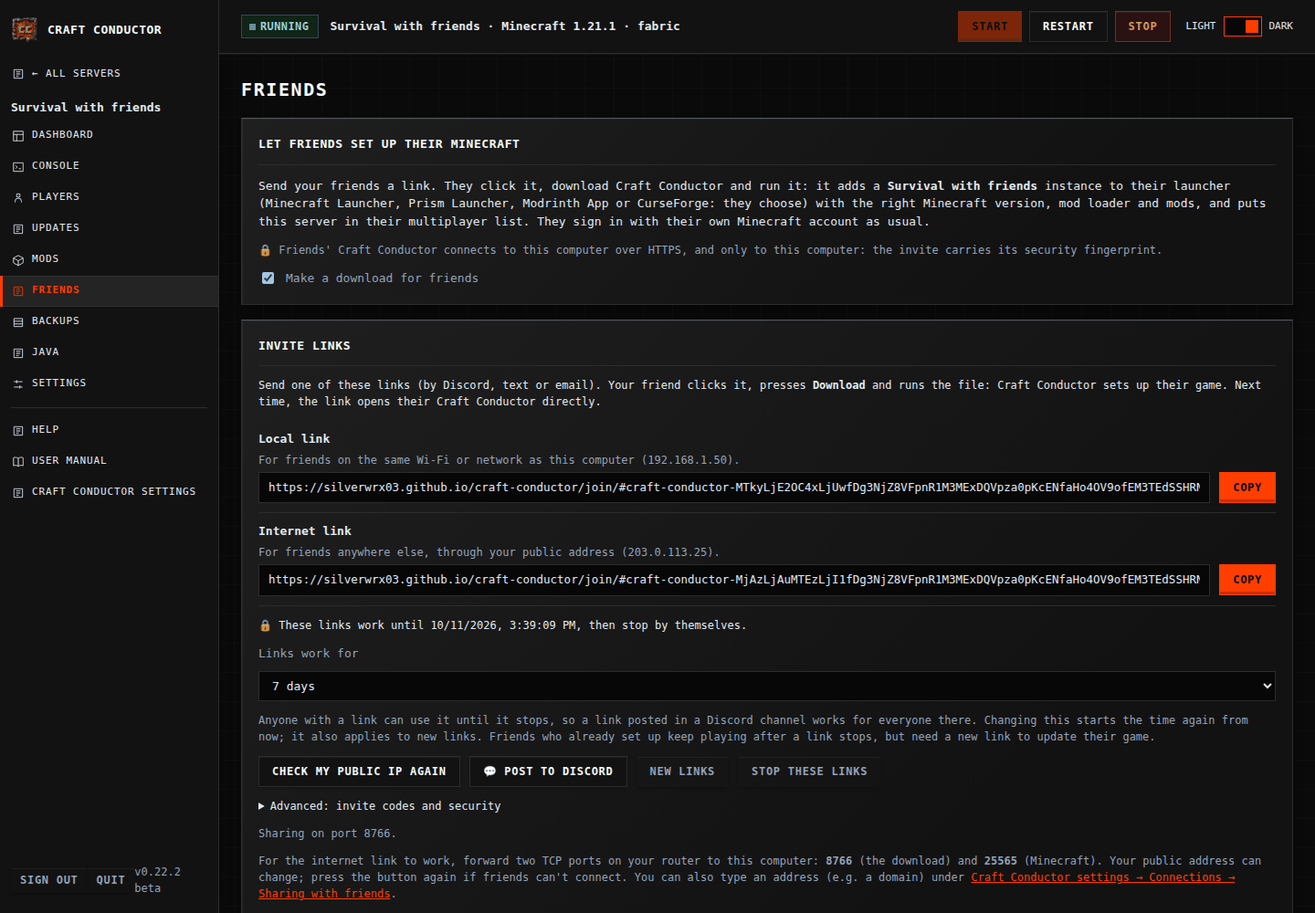
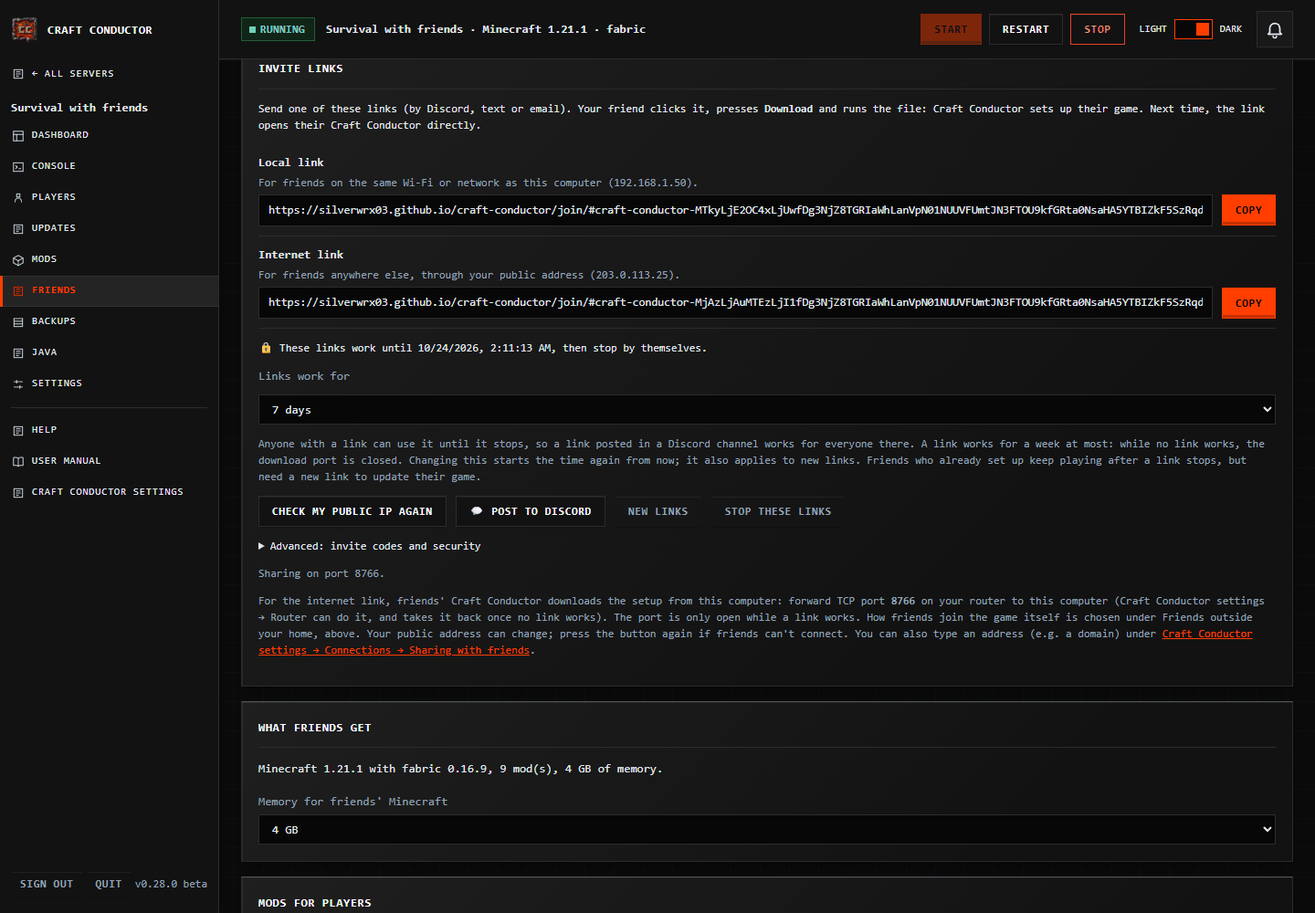
Friends outside your home in the manual, the Help page, the wiki, translations and the changelog
The manual's Friends section explains the three ways, playit.gg's downsides
(checked against its terms and plans on 2026-10-16) and its guided setup, the
risks of an open port and the port Craft Conductor picks, the whitelist rule
and its question, and links that work 1, 3 or 7 days. New picture of the
chooser (friends-outside.png); friends.png shows the invite links again.
The changelog starts with the "Before you update" note for old links.

diff --git a/src/craft_conductor/webui/app.js b/src/craft_conductor/webui/app.js
@@ -5528,7 +5528,9 @@ function routerHelp(opts = {}) {
     h("div", { class: "notice" }, h("strong", {}, "Let Craft Conductor try first: "), "many routers can do it by themselves (UPnP). Switch on ",
       h("a", { href: "#craft-conductor" }, "Craft Conductor settings → Connections → Sharing with friends → Open the ports on my router by itself"),
       " and Craft Conductor says whether it worked. If it didn't, or you'd rather not, do it by hand:"),
-    h("p", { class: "small muted" }, "Either way, forwarding the port makes your server reachable from the whole internet: keep the whitelist on, and never forward the control panel's port."),
+    h("div", { class: "notice warn small" }, h("strong", {}, "Before you open a port: "), REACH_TEXT.router,
+      " Can't, or would rather not? Choose playit.gg under Friends outside your home, on the server's Friends page."),
+    h("p", { class: "small muted" }, "Choosing Open a port on my router there makes Craft Conductor pick the port (not 25565, which bots try first) and say which one to forward. Never forward the control panel's port."),
     h("img", { class: "help-img", src: "/help-network.svg", alt: "A friend on the internet connects to your router, which forwards port " + mc + " to this computer." }),
     h("ol", { class: "steps" },
       h("li", {}, "Give this computer a fixed address on your network, so the rule keeps working: in the router's ", h("strong", {}, "LAN / DHCP"),
@@ -5538,7 +5540,8 @@ function routerHelp(opts = {}) {
       h("li", {}, "Find ", h("strong", {}, "Port Forwarding"), ". Routers also call it Virtual Server, NAT, Port Mapping, or Applications & Gaming."),
       h("li", {}, "Add a rule: protocol ", h("strong", {}, "TCP"), ", external and internal port ", h("strong", {}, String(mc)),
         ", to ", h("strong", {}, ip), ". That's Minecraft."),
-      h("li", {}, "If friends download their setup from you over the internet, add a second rule for port ", h("strong", {}, String(share)), " the same way."),
+      h("li", {}, "If friends download their setup from you over the internet, add a second rule for port ", h("strong", {}, String(share)),
+        " the same way. Craft Conductor only answers on it while an invite link works (a week at most)."),
       h("li", {}, "Save, then test: ask a friend (or use your phone with Wi-Fi off) to connect.")),
     h("img", { class: "help-img", src: "/help-router.svg", alt: "An example port forwarding rule: Minecraft, TCP, port " + mc + ", to this computer's address." }),
     h("div", { class: "notice warn" }, h("strong", {}, "Every router is different. "),
@@ -5588,7 +5591,10 @@ const HELP = [
     screenshot("friends", "The Friends page: a link for friends on your Wi-Fi, and one for everyone else."),
     screenshot("invite-page", "What your friend sees when they open the link."),
     screenshot("friend-setup", "Your friend's Craft Conductor sets up their launchers, and can ask you to let them in."),
-    h("p", {}, "Links are shared, so anyone with one can use it: each stops working by itself after the time you pick (7 days unless you change it), and ",
+    h("p", {}, "Friends who aren't on your Wi-Fi: pick how they join under ", h("strong", {}, "Friends outside your home"), " at the top of the Friends page. ",
+      h("strong", {}, "playit.gg"), " (chosen at first) needs nothing opened on your router: the page walks you through getting its program, which is downloaded only when you press its button and checked before it opens. ",
+      h("strong", {}, "Open a port on my router"), " says the risks first, then picks the port to forward. Either way the whitelist is on, and turning it off asks every time."),
+    h("p", {}, "Links are shared, so anyone with one can use it: each stops working by itself after the time you pick (3 days unless you change it, a week at most), and ",
       h("strong", {}, "Stop these links"), " or ", h("strong", {}, "New links"), " stops it sooner. Friends who already set up keep playing; they need a new link to update."),
     h("p", {}, "Mods you pick under ", h("strong", {}, "Mods for players"), " that run on both sides (client and server) are added to the server's own mods too, with the mods they need, and a message says so; ",
       "removing one from the players' list asks whether to remove it from the server as well (and then about the mods it needed there that friends have too). Mods that only run on players' computers stay with the players. " +
@@ -5672,7 +5678,7 @@ const MANUAL_PICTURES = {
   "Backups": [["backups", "Backups, each checked, with what changed since the one before"]],
   "Java": [["java", "Java versions"]],
   "Settings": [["settings", "A server's settings"], ["web-map", "World tools and the web map"]],
-  "Friends: playing with friends": [["friends", "Invite links on the Friends page"],
+  "Friends: playing with friends": [["friends-outside", "Friends outside your home: playit.gg, step by step"], ["friends", "Invite links on the Friends page"],
     ["discord-invite", "Posting Java and Bedrock invites to Discord"]],
   "For friends: joining a server": [["invite-page", "The invite page your friend opens"],
     ["friend-setup", "Craft Conductor setting up Minecraft on your friend's computer"]],

diff --git a/tests/test_screenshots.py b/tests/test_screenshots.py
@@ -276,6 +276,9 @@ def test_documentation_screenshots(tmp_path, http, modrinth, fake_java, monkeypa
 
     # This computer, as the pictures show it: not the one taking them.
     monkeypatch.setattr(cli, "lan_ip", lambda: "192.168.1.50")
+    from craft_conductor import tunnel
+    monkeypatch.setattr(tunnel, "agent_running", lambda: False)  # (playit.gg's steps from the start, whatever runs here)
+    monkeypatch.setattr(tunnel, "platform", lambda: "windows")
     monkeypatch.setattr(setupmod, "total_ram_gb", lambda: 32.0)
     monkeypatch.setattr(health, "memory_available_gb", lambda: 18.5)
     disk = shutil._ntuple_diskusage(1000 * 1024 ** 3, 412 * 1024 ** 3, 588 * 1024 ** 3)
@@ -382,6 +385,7 @@ def test_documentation_screenshots(tmp_path, http, modrinth, fake_java, monkeypa
     players_files(m.server_dir)
     write_properties(m.server_dir / "server.properties", {"white-list": "true", "enforce-whitelist": "true"})
     (m.server_dir / "players.txt").write_text(" ".join(ONLINE))
+    configmod.set_value(m.config.path, "reach", "way", '"playit"')  # (friends outside join through playit.gg)
     configmod.set_value(m.config.path, "client", "enabled", "true")
     configmod.set_value(m.config.path, "client", "mods", json.dumps(["xaeros-minimap"]))
     make_link(m.config.path, 7)

diff --git a/packaging/wiki.py b/packaging/wiki.py
@@ -68,7 +68,8 @@ IMAGES = {
     "Backups": [("backups.png", "Backups, each checked, with what changed since the one before")],
     "Java": [("java.png", "Java versions")],
     "Settings": [("settings.png", "A server's settings"), ("web-map.png", "World tools and the web map")],
-    "Friends: playing with friends": [("friends.png", "Invite links on the Friends page"),
+    "Friends: playing with friends": [("friends-outside.png", "Friends outside your home: playit.gg, step by step"),
+                                       ("friends.png", "Invite links on the Friends page"),
                                        ("discord-invite.png", "Posting Java and Bedrock invites to Discord")],
     "For friends: joining a server": [("invite-page.png", "The invite page your friend opens"),
                                       ("friend-setup.png", "Craft Conductor setting up Minecraft on your friend's computer")],

diff --git a/src/craft_conductor/webui/manual.md b/src/craft_conductor/webui/manual.md
@@ -119,7 +119,7 @@ The version and server type you pick are what the server is made on. Your mods n
 - Maps need Minecraft 1.18 or newer, and aren't available for modpacks or imported worlds. Vanilla servers are previewed with Fabric, which makes exactly the same worlds.
 - If a map can't be made, it says why (when the private server crashed, which mod it blames). Its server's log is kept as `last-failed.log` in the `previews` folder of Craft Conductor's own folder (`.craft-conductor`) until Craft Conductor restarts.
 
-**5. Settings.** The server's name (shown in the multiplayer list), max players, difficulty, game mode, memory and port. Above 16 GB of memory, Craft Conductor offers **Aikar's flags** (tuned garbage collection that avoids lag spikes). **Advanced settings** has the rest of Minecraft's server settings. The whitelist starts **off** (anyone with the address can join) until you turn it on.
+**5. Settings.** The server's name (shown in the multiplayer list), max players, difficulty, game mode, memory and port. Above 16 GB of memory, Craft Conductor offers **Aikar's flags** (tuned garbage collection that avoids lag spikes). **Advanced settings** has the rest of Minecraft's server settings. Under **Friends (optional)**, **Friends outside your home** picks how friends who aren't on your Wi-Fi join (playit.gg is chosen at first; see Friends outside your home). When the server can be reached from the internet, the whitelist starts **on**, and **Your Minecraft name** puts you on it; with **Only friends at home**, it starts **off** (anyone with the address can join) until you turn it on.
 
 **Friends (optional).** Tick "Make a download for my friends" to get an invite for them. **Set up now** opens the mod browser for mods for players' computers (a minimap, JEI...), and **Local files** adds your own. Mods your server's mods need on players' computers are added by themselves. A mod that runs on both sides ("server + client" in the browser) is also added to the server's mods, with the mods it needs, and a message says so ("X also runs on the server, so it was added there too, with Y"); the list shows it as **also on the server**. Removing it from the list asks whether to remove it from the server too. Mods that only run on players' computers stay with the players.
 
@@ -324,10 +324,7 @@ On the server's **Friends** page, switch on "Make a download for friends". Then:
 
 For power users, **Advanced: invite codes and security** shows the raw invite codes (for `craft-conductor join <code>`).
 
-**For friends outside your home:** press **Use my public IP** (or type your address under Craft Conductor settings → Connections → Sharing with friends), and forward two TCP ports on your router to this computer: the Minecraft port (25565 for the first server) and the friends' port (8766 unless you changed it).
-
-- **Let Craft Conductor do it:** **Craft Conductor settings → Connections → Sharing with friends → Open the ports on my router by itself (UPnP)**. It's off until you switch it on, and it asks you first, because it makes your server reachable from the whole internet, not just your friends: anyone can try to connect, and a weakness in Minecraft or in a mod could put this computer at risk. While it's on, the page says so. Craft Conductor asks the router to forward each server's Minecraft port and the friends' port to this computer (never the control panel's port, or a server's RCON port), renews that while it runs, and takes the ports back when you switch it off or quit Craft Conductor. It shows which ports worked, your router's internet address, and warns when forwarding can't help (your provider shares one address between homes, called CGNAT, or there are two routers). **Check my setup** shows it too. Keep the whitelist on while it's on.
-- **By hand:** many routers have UPnP switched off. The Help page has pictures; every router is different, so check its manual if you get stuck.
+**For friends outside your home:** choose how they join under **Friends outside your home**, at the top of the Friends page (see the next section). For the internet link, friends' Craft Conductor downloads the setup from this computer, so the friends' download port (TCP 8766 unless you changed it) must reach this computer too: press **Use my public IP** (or type your address under Craft Conductor settings → Connections → Sharing with friends), and forward that port on your router, by hand or with **Router** (see Open a port on my router). The port is only open while a link works: once no link works, nothing answers on it, and Router takes it back from your router within a minute.
 
 **What friends get:** the Minecraft version, mod loader and every mod that runs on players' computers (server-only mods are left out), plus the mods you add under **Mods for players**, a CurseForge modpack's mods that its server pack leaves out (see **Modpacks**), and the memory you choose for their Minecraft. Mods that server mods need on players' computers are added by themselves (a message says which and why).
 
@@ -337,31 +334,58 @@ For power users, **Advanced: invite codes and security** shows the raw invite co
 
 It works the other way too. A Modrinth mod you add to the server with the mod browser (or tick under **World generation & map preview** on New server) that runs on both sides goes in your friends' mods as well, with the mods it needs that also run on both sides: a message says "X also runs on players' computers, so it was added to your friends' mods too, with Y". It's added even while the friends' download is off (the message says so), so it's there when you switch it on. When you **Remove** such a mod from the server, Craft Conductor asks in one question whether to remove it, and the mods that went with it, from your friends' mods too (**Cancel** keeps them for friends). CurseForge doesn't say where its mods run, so CurseForge mods aren't added this way.
 
-**How long links work.** Invite links are made to be shared (in a Discord channel, say), so they aren't single-use: everyone with the link can use it. Instead, a link stops working by itself after the time picked under **Links work for**: 1 day, 7 days (the usual), 30 days, or **Until I make new ones**. The page shows when the links stop, and **Post to Discord** says it in the message. Changing it starts the time again from now, and new links use it too. **Stop these links** stops them at once; **New links** makes new ones, and the old ones stop working. Once a link has stopped, nobody can set up with it any more; friends who already set up keep playing, but need a new link to update their game. Want only the people you know to play? Keep the whitelist on: a link lets friends download the setup and **ask to be let in**, and you decide.
+**How long links work.** Invite links are made to be shared (in a Discord channel, say), so they aren't single-use: everyone with the link can use it. Instead, a link stops working by itself after the time picked under **Links work for**: 1 day, 3 days (the usual: a weekend, Friday to Sunday) or 7 days, the most, because the download port is open while a link works. Links made with Craft Conductor 0.28 or earlier to work longer (30 days, or **Until I make new ones**) stopped when it was updated: make new ones. The page shows when the links stop, and **Post to Discord** says it in the message. Changing it starts the time again from now, and new links use it too. **Stop these links** stops them at once; **New links** makes new ones, and the old ones stop working. Once a link has stopped, nobody can set up with it any more; friends who already set up keep playing, but need a new link to update their game. Want only the people you know to play? Keep the whitelist on: a link lets friends download the setup and **ask to be let in**, and you decide.
 
 **Security:** the link opens Craft Conductor's invite page on GitHub, and the invite itself is after the `#`, which browsers never send anywhere. Friends' Craft Conductor connects to your computer only over HTTPS, and only to your computer: the invite carries the fingerprint of your Craft Conductor's certificate, and anything else is refused. The Craft Conductor program itself always comes from GitHub, never from your server. The friends' port never gives access to the control panel.
 
-### No port forwarding? playit.gg
+### Friends outside your home
 
-If your router or internet provider doesn't let you forward ports, [playit.gg](https://playit.gg) can: its program runs on this computer and gives your server an address on the internet that friends join through.
+At the top of a server's **Friends** page (and in **New server**'s Friends step, and for every server in **Craft Conductor settings → Connections → Sharing with friends**), pick how friends who aren't on your Wi-Fi join:
 
-**playit.gg is an outside service**, run by its own company, not by Craft Conductor. When playit.gg has problems, or its program isn't running on this computer, friends can't connect through it, however healthy your server is, and Craft Conductor can't fix that. Friends on your own network can still join with the Local link.
+- **playit.gg (recommended)**, chosen at first: nothing is opened on your router. Friends join through an address playit.gg gives you. Free for Minecraft Java and Bedrock.
+- **Open a port on my router**: friends join with your home's internet address, through a port forwarded on your router.
+- **Only friends at home**: only people on this computer's Wi-Fi or network can join.
 
-1. Download playit from playit.gg, run it, and claim it in your playit.gg account (it shows a link).
-2. In playit.gg, add a **Minecraft Java** tunnel to this server's port (25565 unless you changed it). Put the address it gives you in the server's **Settings → playit.gg tunnel**.
-3. For friends' downloads (the invite) from outside, add a **TCP** tunnel to the friends' download port (8766 unless changed) and put its address, with the port, in **Craft Conductor settings → Connections → Sharing with friends → No port forwarding? Use playit.gg**. Internet invites then use it.
+**The whitelist is on whenever the server can be reached from the internet:** with playit.gg or an open port chosen, with **Router** (UPnP) on, with a public address under Sharing with friends, with a playit.gg address in the server's Settings, or once **Check my setup** reached it from the internet. A new server made that way starts with the whitelist on; type **Your Minecraft name** in New server and you're put on it, so you can join (or add yourself on the Players page). A server made after Craft Conductor 0.28 that becomes reachable later gets its whitelist turned on by itself, and the activity (and the bell) says so. Servers made with 0.28 or earlier are left as they are. You can still turn the whitelist off, but on a server the internet can reach, Craft Conductor asks every time (on the Dashboard, the Players page, Settings and New server): "With the whitelist off, anyone who finds it can join: bots look for Minecraft servers all day, and strangers can grief your world." **Turn it off anyway** turns it off (it then isn't turned on again by itself); **Keep it on** leaves it on.
 
-With a tunnel set, the Dashboard shows **playit.gg tunnel**: Craft Conductor asks the server for its status through the tunnel, the way a friend's game does, and says whether it's **working**, whether it answers with a **different server** (point the tunnel at this server's port), or can't be reached. It also says if the playit program isn't running here, and links to playit.gg's status page. Craft Conductor checks every 5 minutes and notes in the activity (and on Discord, if set up) when the tunnel stops or starts working. **Check my setup** includes it too.
+#### playit.gg
+
+[playit.gg](https://playit.gg) is a separate company's service in the middle: everything players send goes through it. Plainly:
+
+- **You need a playit.gg account** (13 or older, by its terms), and its program runs on this computer.
+- **When playit.gg has problems**, or its program isn't running here, friends can't join through it however healthy your server is, and Craft Conductor can't fix that. Friends on your network can still join.
+- **It can add lag:** free tunnels aren't always routed through the nearest place (a friend nearby can be sent through another continent).
+- **The free plan:** Minecraft Java and Bedrock tunnels are free. playit.gg doesn't publish the free plan's exact limits, and its plans can change. Its other tunnel types (plain TCP, HTTPS) need a paid plan, so Craft Conductor doesn't use them: the friends' download from outside goes through your router instead (see above).
+- **Players' own addresses don't reach the server:** everyone seems to come from this computer, so IP bans don't work through it (name bans and the whitelist do).
+
+The Friends page walks you through it:
+
+1. **Get playit.gg's program.** On Windows, press **Download and install playit.gg** (in a browser on the server's own computer). Nothing is downloaded before you press it. Craft Conductor downloads playit.gg's installer from playit.gg's own GitHub release, checks it (the SHA-256 GitHub lists for it, and the signature of Developed Methods LLC, playit.gg's company) and only then opens it; a download that fails a check is deleted, never opened. playit.gg's installer asks Windows for permission and sets the program up as its own program: it keeps running by itself, also when Craft Conductor is closed (uninstall it in Windows' **Apps** list). On Linux, the page shows playit.gg's own commands to copy (its signed package repository); on macOS and elsewhere, a link to playit.gg/download.
+2. **Connect it to a playit.gg account.** playit.gg's program shows a link to claim it: open it, and sign in or make a free account. Craft Conductor never sees your playit.gg account or its key.
+3. **Add a tunnel** on playit.gg: **Minecraft Java** to this computer's port (the page says which), and **Minecraft Bedrock** to the Bedrock port if Geyser is on.
+4. **Paste the address** playit.gg gives it and press **Save** (it's also the server's **Settings → playit.gg tunnel**).
+
+With an address set, the Dashboard shows **playit.gg tunnel**: Craft Conductor asks the server for its status through the tunnel, the way a friend's game does, and says whether it's **working**, whether it answers with a **different server** (point the tunnel at this server's port), or can't be reached. It also says if playit.gg's program isn't running here (its tray icon alone isn't enough), and links to playit.gg's status page. Craft Conductor checks every 5 minutes and notes in the activity (and on Discord, if set up) when the tunnel stops or starts working. **Check my setup** includes it too.
+
+#### Open a port on my router
+
+Before you choose it, Craft Conductor says what it means, and asks: opening a port on your router makes the server reachable by anyone on the internet, not just your friends. Programs scan the whole internet for Minecraft servers all day, and a server they find can be joined and griefed. Your home's internet address becomes public: anyone who joins can see it. Keep the whitelist on, and close the port when you don't need it.
+
+**Craft Conductor picks the port:** not Minecraft's usual 25565 (the one bots try first), not one another server here or Craft Conductor itself uses, and free on this computer: a random port between 30000 and 39999. With Geyser on, it picks a UDP port for Bedrock players too (written into Geyser's config; on a server Geyser hasn't started on yet, from its second start). The server has to be stopped for that. The page then says exactly what to forward: **Forward TCP port N** (and **UDP port M** for Bedrock players) on your router to this computer. A different port doesn't hide the server from a scan of every port: the whitelist is what keeps strangers out.
+
+- **Let Craft Conductor do it:** **Craft Conductor settings → Connections → Sharing with friends → Router → Open the ports on my router by itself (UPnP)**. It's off until you switch it on, and it asks you first, with the same warning. While it's on, the page says so. Craft Conductor asks the router to forward each server's Minecraft port (and its Bedrock port, with Geyser), and the friends' download port while a link works, to this computer (never the control panel's port, or a server's RCON port), renews that while it runs, and takes the ports back when you switch it off or quit Craft Conductor. It shows which ports worked, your router's internet address, and warns when forwarding can't help (your provider shares one address between homes, called CGNAT, or there are two routers): then choose playit.gg. **Check my setup** shows it too.
+- **Windows Firewall:** **Check my setup → Let them through Windows Firewall** adds Craft Conductor's rules for these ports (TCP, and UDP for Bedrock). Deleting the server offers to remove them.
+- **By hand:** many routers have UPnP switched off. The Help page has pictures; every router is different, so check its manual if you get stuck.
 
 ### Bedrock players (phones, tablets, consoles)
 
-With Geyser enabled, **Post to Discord** also offers **Bedrock internet link** and **Bedrock local link**. Select either alongside the Java links, or post only Bedrock links. They open a page with the server address, Geyser port and instructions for adding the server in Bedrock; players don't need Craft Conductor. The internet option needs your public address and UDP port forwarding. Java and friends' download tunnels aren't used for Bedrock. Install Geyser before inviting players. Bedrock links contain the server address and port, so they do not expire or stop working when you replace the Java download links.
+With Geyser enabled, **Post to Discord** also offers **Bedrock internet link** and **Bedrock local link**. Select either alongside the Java links, or post only Bedrock links. They open a page with the server address, Geyser port and instructions for adding the server in Bedrock; players don't need Craft Conductor. The internet option needs your public address and UDP port forwarding (or a playit.gg Bedrock tunnel). Java tunnels aren't used for Bedrock. Install Geyser before inviting players. Bedrock links contain the server address and port, so they do not expire or stop working when you replace the Java download links.
 
 Friends playing Minecraft on a phone, a tablet, Windows (the Microsoft Store version) or a console can join a Fabric, Quilt, NeoForge, Paper or Purpur server through [Geyser](https://geysermc.org). On the Friends page, press **Let Bedrock players join**: Craft Conductor adds the Geyser and Floodgate mods from Modrinth and offers to install them now (the server restarts after the countdown). Bedrock players then use **Play → Servers → Add Server** with your address and the Bedrock port (19132 unless Geyser's config says otherwise), and sign in with their own Microsoft account; they don't need Java Edition.
 
 The setup checks both mods first. When a compatible Geyser build is labeled beta or alpha, it offers that build with an early-build confirmation. Accepting applies to the bridge mod and its dependencies; other mods keep their existing release policy.
 
-- For friends outside your home, also forward **UDP** port 19132 on your router (Bedrock uses UDP).
+- For friends outside your home, also forward the **UDP** Bedrock port on your router (Bedrock uses UDP; with **Open a port on my router** chosen, Craft Conductor picks it and Router forwards it), or add a **Minecraft Bedrock** tunnel on playit.gg.
 - Xbox, PlayStation and Switch can't add servers by themselves; GeyserMC's guide shows the workarounds.
 - With the whitelist on, add a Bedrock player with the console command `fwhitelist add <name>`. Their names start with a dot (.) in game.
 - Remove Geyser and Floodgate on the Mods page to turn it off.
@@ -480,7 +504,7 @@ Choose a section from the menu: **Appearance** (Language and Display), **Sounds 
 - **Sign-in:** change your password or PIN. There's always one.
 - **People:** invite people to help, each with their own sign-in and what they may do on each server (see People and what they may do).
 - **Remote access & phones:** see above.
-- **Sharing with friends:** the friends' port and your public address, a playit.gg tunnel, and **Router**: open the ports on your router by itself (UPnP).
+- **Sharing with friends:** the friends' port and your public address, **Friends outside your home** for each server (playit.gg, a port on your router, or only at home), and **Router**: open the ports on your router by itself (UPnP).
 - **CurseForge:** the downloads of Craft Conductor come with Craft Conductor's own CurseForge API key, so CurseForge works without one of your own. If you prefer your own (free, from console.curseforge.com), enter it here; it's used instead.
 - **Discord:** add a bot to post invites to a channel. **Live status message:** pick a Discord server and channel, and **Keep a status message there**: one message that always shows whether each server is online, how many are playing and its Minecraft version (and your public address, if set). Craft Conductor edits it as things change and says when Craft Conductor is closed; **Stop** ends it. The bot never reads the channel.
   - **Whitelist through Discord:** friends type `/whitelist` and their Minecraft name in your Discord server (with several Minecraft servers, they pick one too). Only they see the answer. Pick what happens: **Ask me first** puts them on the Players page to **Allow** or **Ignore** (and tells you, like any request to join), or **Let them in straight away** adds them to the whitelist at once, optionally **only members with a role** you pick (others are asked for instead). **Turn on** starts it; the card shows whether Craft Conductor is listening. It works while Craft Conductor is open. If `/whitelist` doesn't show up in Discord, add the bot again with **Add it to another Discord server** (bots added before Craft Conductor 0.18 lack the permission for commands) and restart Discord. The bot still never reads messages: Discord only sends it the command.

diff --git a/CHANGELOG.md b/CHANGELOG.md
@@ -6,8 +6,19 @@ its fix will say which version it's in.
 
 ## Unreleased (not released yet)
 
+**Before you update:** friends' invite links set to work 30 days or "Until I make new ones" stop when this version starts: links now work 1, 3 or 7 days. Make new ones on the Friends page afterwards; friends who already set up keep playing.
+
 **Added**
 - **A bell for messages you missed.** The messages at the top of the screen still go after a few seconds (errors after 12), but the bell at the top right of every page now keeps the last 100: newest first, each with its time and its server, with a red dot while some are unread. It also has the notices that stay at the top (Undo, Mod test finished, Craft Conductor updates), the browser notifications this browser showed, and the phone notifications this device got. Opening it marks them read; **Clear** empties it. It's kept in this browser for the person signed in, and **Sign out** clears it.
+- **Friends outside your home: playit.gg first, and an open port explained.** A server's **Friends** page, **New server**'s Friends step and **Craft Conductor settings → Sharing with friends** ask how friends who aren't on your Wi-Fi join: **playit.gg** (chosen at first: nothing opened on your router, free for Minecraft), **Open a port on my router**, or **Only friends at home**. playit.gg's downsides are said plainly next to it (a separate company in the middle, an account, some lag, its free plan's limits, no players' addresses), and its setup goes step by step: on Windows, **Download and install playit.gg** downloads its installer from playit.gg's GitHub release only when pressed, and opens it only after checking it (GitHub's SHA-256 and the signature of Developed Methods LLC, playit.gg's company); on Linux, playit.gg's own commands to copy. Opening a port says the risks first (bots scan for Minecraft servers all day, griefing, your home's address becomes public), then Craft Conductor picks a free port that isn't 25565 (and a UDP one for Bedrock players with Geyser) and says which to forward; Router (UPnP) and the Windows Firewall rule use it.
+- **The whitelist is on whenever a server can be reached from the internet** (playit.gg or an open port, Router on, a public address, a playit.gg address, or Check my setup reaching it). New servers made that way start with it on, with **Your Minecraft name** put on it so you can join; a server made from now on that becomes reachable later gets it turned on, with a notice. Turning it off asks every time ("anyone who finds it can join"), on the Dashboard, the Players page, Settings and New server. Servers made before this are left as they are.
+
+**Changed**
+- **Invite links work 1, 3 (a weekend, the usual) or 7 days**, no longer 30 days or until replaced: the friends' download port is only open while a link works, and Router (UPnP) now takes it back from your router within a minute of the last link ending, not at its next half-hourly renewal.
+- The **playit.gg tunnel for friends' downloads** (Sharing with friends) is gone: playit.gg now asks for a paid plan for that kind of tunnel, and Craft Conductor never needs one. Friends outside download through your router's port instead, open only while a link works.
+
+**Fixed**
+- The Dashboard said playit.gg's program was running when only its tray icon was.
 
 ## 0.28.0 (2026-10-16)
 

diff --git a/wiki/Security.md b/wiki/Security.md
@@ -78,18 +78,40 @@ itself is after the `#` in the link, which browsers never send anywhere. Power u
 still use the raw invite code with `craft-conductor join <code>`.
 
 **Links that stop.** An invite link is made to be shared (in a Discord channel, say), so it isn't
-single-use. It stops working by itself after the time you pick on the Friends page (7 days unless
-you change it; or until you replace it), and **Stop these links** or **New links** ends it at once.
+single-use. It stops working by itself after the time you pick on the Friends page (3 days unless
+you change it, a week at most), and **Stop these links** or **New links** ends it at once.
 After that every request with it is refused, and when no server has a working link the friends'
-port closes. A link only ever gives the setup for players' computers and a way to **ask to be let
+port closes (and Router takes it back from your router within a minute). A link only ever gives the setup for players' computers and a way to **ask to be let
 in**: it never reaches the control panel, and with the whitelist on, you decide who plays.
+
+## Friends outside your home
+
+Each server's Friends page picks how friends outside your home join: **playit.gg** (chosen at
+first: nothing opened on your router), **Open a port on my router**, or **Only friends at home**.
+
+**The whitelist is on whenever a server can be reached from the internet** (playit.gg or an open
+port chosen, Router on, a public address set, a playit.gg address, or Check my setup reached it).
+Turning it off is allowed, but Craft Conductor asks every time, and the server refuses it until
+the warning has been seen.
+
+**Port forwarding** gets a port Craft Conductor picks: not 25565 (the port bots try first), nobody
+else's, between 30000 and 39999. That doesn't hide the server from a scan of every port; the
+whitelist is what keeps strangers out.
+
+**playit.gg's program** is downloaded only when you press the button, only from playit.gg's own
+GitHub release, and opened only after two checks: the SHA-256 GitHub lists for the file, and a
+valid Windows signature from Developed Methods LLC (playit.gg's company). A file that fails either is
+deleted. It runs as its own program; Craft Conductor never sees your playit.gg account or its key.
+playit.gg carries only Minecraft's game traffic to the server's port: the control panel is never
+reachable through it.
 
 ## The router (UPnP)
 
 **Open the ports on my router by itself** is off until you switch it on, and asks first: it makes
 your server reachable from the whole internet, and the page says so for as long as it's on. Only
-each server's Minecraft port and the friends' port are forwarded, never the control panel's port
-or a server's RCON port, and they're taken back when you switch it off or quit.
+each server's Minecraft port (and its Bedrock port, with Geyser) and the friends' port while a link
+works are forwarded, never the control panel's port or a server's RCON port, and they're taken back
+when you switch it off or quit.
 
 ## Secrets on your computer
 

diff --git a/docs/real-world-testing.md b/docs/real-world-testing.md
@@ -221,7 +221,10 @@ reproduced.
    on mobile data (Wi-Fi off) joins the server. Switch UPnP off: the router's mapping goes away.
 2. **Carrier-grade NAT:** connect the PC to your phone's hotspot (mobile networks usually use
    CGNAT) and run **Check my setup**: record whether it says friends can't reach you directly and
-   suggests playit.gg or Tailscale; try the playit.gg route.
+   suggests playit.gg or Tailscale; try the playit.gg route: Friends page → Friends outside your
+   home → playit.gg → **Download and install playit.gg** (record that nothing downloads before the
+   press, and what the installer and claim step show), add a Minecraft Java tunnel, paste its
+   address, and join from the phone on mobile data. Check the whitelist was on by itself.
 3. **Invite links on a phone:** Friends page → make an invite link; open it on the phone on mobile
    data; record what works, and that it stops working when **Links work for** says.
 4. **The phone app over Tailscale** (the manual's *The phone app* section): pair, sign in, start

diff --git a/README.md b/README.md
@@ -77,8 +77,9 @@ sets up your game. See [Joining a friend's server](https://github.com/silverWRX0
 ## What Craft Conductor can't do
 
 - It can't make your computer reachable from the internet by itself: friends outside your home
-  need your **router's port forwarding** (Craft Conductor can set it up by itself with UPnP, or
-  shows you how), or a playit.gg tunnel.
+  join through a free **playit.gg** tunnel (Craft Conductor walks you through it) or your
+  **router's port forwarding** (Craft Conductor picks the port and can set it up with UPnP). Either
+  way, the whitelist is on.
 - It can't make mods work together when their authors haven't made them compatible. It can only
   find out, tell you, and wait for updates.
 - It isn't a hosting service: the server runs on your computer, which has to be on for people to
